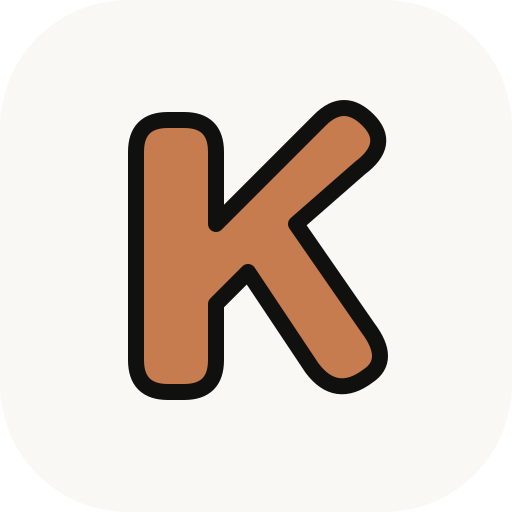
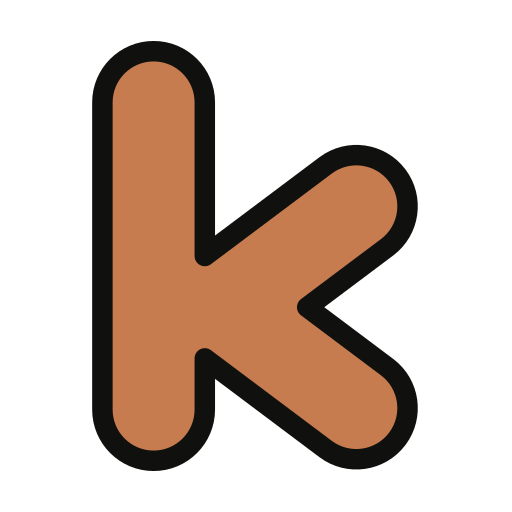
Update Kinlume branding to rounded lowercase k

diff --git a/public/privacy.html b/public/privacy.html
@@ -1,4 +1,4 @@
-<!doctype html><html lang="en"><head><meta charset="UTF-8"><meta name="viewport" content="width=device-width,initial-scale=1,viewport-fit=cover"><meta name="robots" content="noindex"><title>Privacy policy · Kinlume</title><link rel="icon" href="/brand/kinlume-icon.svg" type="image/svg+xml"><link rel="stylesheet" href="/legal.css"></head><body><header><a href="/">Kinlume</a></header><main><nav class="legal-nav" aria-label="Legal information"><a href="/">Back to app</a><a href="/terms.html">Terms of service</a><a href="/privacy.html">Privacy policy</a></nav><h1>Privacy policy</h1><p class="meta">Updated October 24, 2026</p><p class="draft"><strong>Draft for the current prototype.</strong> Operator and contact details are not finalized. Review and complete this document before public launch.</p><section><h2>Scope and current status</h2><p>This draft describes Kinlume’s current implementation. The hosted version uses Vercel for the interface and API functions, and Supabase for PostgreSQL database storage and authentication. Local development retains a separate SQLite database. Operator and public contact information are intentionally blank and must be completed before public registration.</p></section>
+<!doctype html><html lang="en"><head><meta charset="UTF-8"><meta name="viewport" content="width=device-width,initial-scale=1,viewport-fit=cover"><meta name="robots" content="noindex"><title>Privacy policy · Kinlume</title><link rel="icon" href="/brand/kinlume-icon.svg?v=2" type="image/svg+xml"><link rel="stylesheet" href="/legal.css"></head><body><header><a href="/">Kinlume</a></header><main><nav class="legal-nav" aria-label="Legal information"><a href="/">Back to app</a><a href="/terms.html">Terms of service</a><a href="/privacy.html">Privacy policy</a></nav><h1>Privacy policy</h1><p class="meta">Updated October 24, 2026</p><p class="draft"><strong>Draft for the current prototype.</strong> Operator and contact details are not finalized. Review and complete this document before public launch.</p><section><h2>Scope and current status</h2><p>This draft describes Kinlume’s current implementation. The hosted version uses Vercel for the interface and API functions, and Supabase for PostgreSQL database storage and authentication. Local development retains a separate SQLite database. Operator and public contact information are intentionally blank and must be completed before public registration.</p></section>
 <section><h2>Information you provide</h2><p>Accounts use an email address and password. Supabase manages hosted account passwords; local development stores salted password hashes. The interface does not display readable passwords. Your survey can contain your purpose, preferred name, assistance needs, search area, travel and accessibility preferences, optional household range and circumstances, and optional notes. Organization managers submit public organization and resource information. Donors submit item quantities; the app stores pledges and delivery records.</p></section>
 <section><h2>How information is used</h2><p>Account information supports sign-in and ownership checks. Private survey answers seed searches and visit preferences. Organization records support public listings and donation requests. Pledge and delivery records support accurate totals. Organizations do not receive your private questionnaire through their dashboard. Only provide information needed for these functions.</p></section>
 <section><h2>AI messages and personalization</h2><p>Chat messages, recent conversation context, selected resource facts, and visit preferences you explicitly discuss are sent through the server to the configured AI provider, currently Groq. If you opt in to saved-profile personalization, selected needs and travel preferences are included. Your name, account email, and private notes are excluded from automatic profile context. Anything you type into chat is part of that message, including sensitive details you choose to include. Provider processing and retention are governed by the provider’s terms; Kinlume does not promise zero provider retention.</p></section>

diff --git a/public/terms.html b/public/terms.html
@@ -1,4 +1,4 @@
-<!doctype html><html lang="en"><head><meta charset="UTF-8"><meta name="viewport" content="width=device-width,initial-scale=1,viewport-fit=cover"><meta name="robots" content="noindex"><title>Terms of service · Kinlume</title><link rel="icon" href="/brand/kinlume-icon.svg" type="image/svg+xml"><link rel="stylesheet" href="/legal.css"></head><body><header><a href="/">Kinlume</a></header><main><nav class="legal-nav" aria-label="Legal information"><a href="/">Back to app</a><a href="/terms.html">Terms of service</a><a href="/privacy.html">Privacy policy</a></nav><h1>Terms of service</h1><p class="meta">Updated October 24, 2026</p><p class="draft"><strong>Draft for the current prototype.</strong> Operator and contact details are not finalized. Review and complete this document before public launch.</p><section><h2>About Kinlume</h2><p>Kinlume is a community-resource prototype. It helps people discover assistance, plan possible visits, and coordinate item donations. It is not an emergency service, government agency, or a guarantee of assistance. These draft terms describe the prototype and its intended use; operator and contact information have not been finalized.</p></section>
+<!doctype html><html lang="en"><head><meta charset="UTF-8"><meta name="viewport" content="width=device-width,initial-scale=1,viewport-fit=cover"><meta name="robots" content="noindex"><title>Terms of service · Kinlume</title><link rel="icon" href="/brand/kinlume-icon.svg?v=2" type="image/svg+xml"><link rel="stylesheet" href="/legal.css"></head><body><header><a href="/">Kinlume</a></header><main><nav class="legal-nav" aria-label="Legal information"><a href="/">Back to app</a><a href="/terms.html">Terms of service</a><a href="/privacy.html">Privacy policy</a></nav><h1>Terms of service</h1><p class="meta">Updated October 24, 2026</p><p class="draft"><strong>Draft for the current prototype.</strong> Operator and contact details are not finalized. Review and complete this document before public launch.</p><section><h2>About Kinlume</h2><p>Kinlume is a community-resource prototype. It helps people discover assistance, plan possible visits, and coordinate item donations. It is not an emergency service, government agency, or a guarantee of assistance. These draft terms describe the prototype and its intended use; operator and contact information have not been finalized.</p></section>
 <section><h2>Listings and visit plans</h2><p>Directory records, hours, photos, eligibility information, and map positions can be incomplete or outdated. Confirm details directly with the organization before travelling. Recommendations do not establish eligibility, reserve supplies, make appointments, or arrange transportation. Estimated travel times are not live routes or transit schedules.</p></section>
 <section><h2>AI assistance</h2><p>The assistant uses a third-party AI service with selected resource facts. Responses can contain mistakes. Do not rely on it for emergency response or professional medical, legal, or financial decisions. Do not enter identity documents, Social Security numbers, bank details, passwords, or other people’s private information.</p></section>
 <section><h2>Accounts and appropriate use</h2><p>Use accurate information, protect your password, and manage only organizations you are authorized to represent. Do not impersonate a nonprofit, publish fraudulent requests, post unlawful or abusive content, scrape personal information, or try to bypass security or ownership checks. Hosted accounts use Supabase email confirmation when enabled. A password-recovery interface and a parental-consent process are not implemented. Do not create accounts for children under 13.</p></section>

diff --git a/src/components/BrandLogo.jsx b/src/components/BrandLogo.jsx
@@ -1,10 +1,10 @@
-// One filled, rounded K is shared by the header and opening animation.
+// A rounded lowercase k with straight, balanced diagonal arms.
 export default function BrandLogo() {
   return (
     <span className="brand-lockup">
-      <svg className="brand-mark" viewBox="0 0 48 48" aria-hidden="true">
+      <svg className="brand-mark" viewBox="0 0 48 50" aria-hidden="true">
         <path
-          d="M13 7Q9 7 9 11V37Q9 41 13 41H15Q19 41 19 37V30L23 26L31 38Q34 42 38 39Q41 37 38 33L29 20L37 13Q41 10 38 7Q35 4 32 7L19 20V11Q19 7 15 7Z"
+          d="M9 10C9 7.239 11.239 5 14 5C16.761 5 19 7.239 19 10V25L30.8 16.15C33.009 14.493 36.143 14.941 37.8 17.15C39.457 19.359 39.009 22.493 36.8 24.15L29 30L36.8 35.85C39.009 37.507 39.457 40.641 37.8 42.85C36.143 45.059 33.009 45.507 30.8 43.85L19 35V40C19 42.761 16.761 45 14 45C11.239 45 9 42.761 9 40Z"
           fill="currentColor"
           stroke="#10100f"
           strokeWidth="2"

diff --git a/index.html b/index.html
@@ -18,9 +18,9 @@
       content="black-translucent"
     />
     <link rel="manifest" href="/manifest.webmanifest" />
-    <link rel="apple-touch-icon" href="/brand/kinlume-180.png" />
+    <link rel="apple-touch-icon" href="/brand/kinlume-180.png?v=2" />
     <title>Kinlume</title>
-    <link rel="icon" type="image/svg+xml" href="/brand/kinlume-icon.svg" />
+    <link rel="icon" type="image/svg+xml" href="/brand/kinlume-icon.svg?v=2" />
   </head>
   <body>
     <div id="root"></div>
